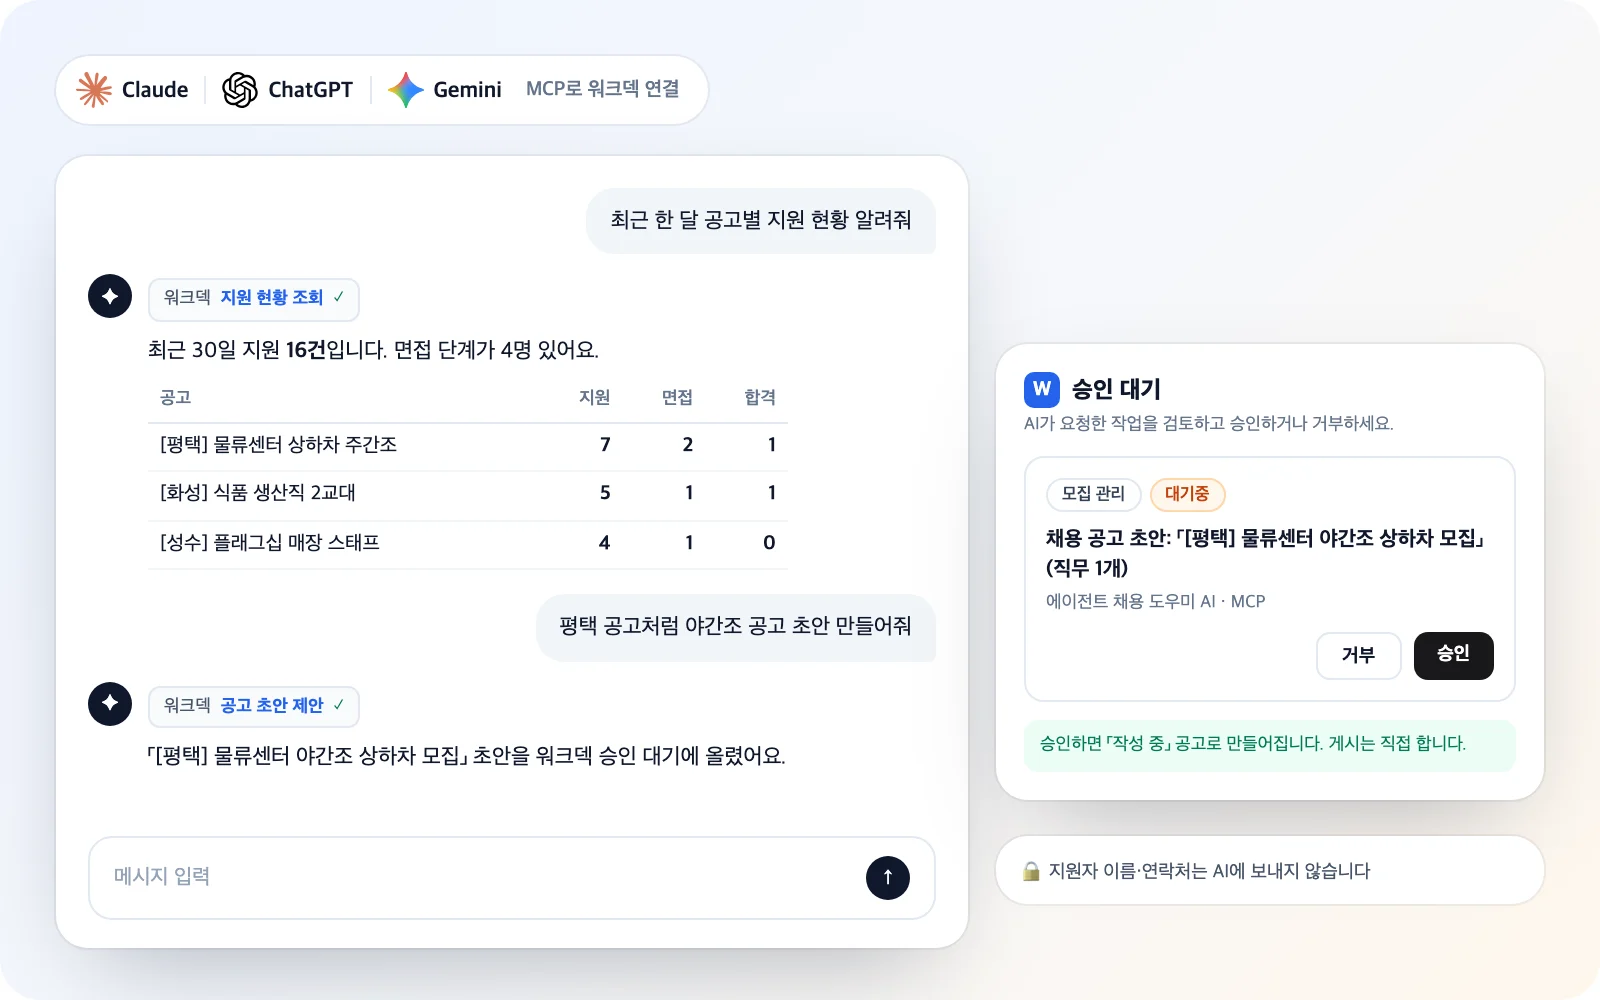
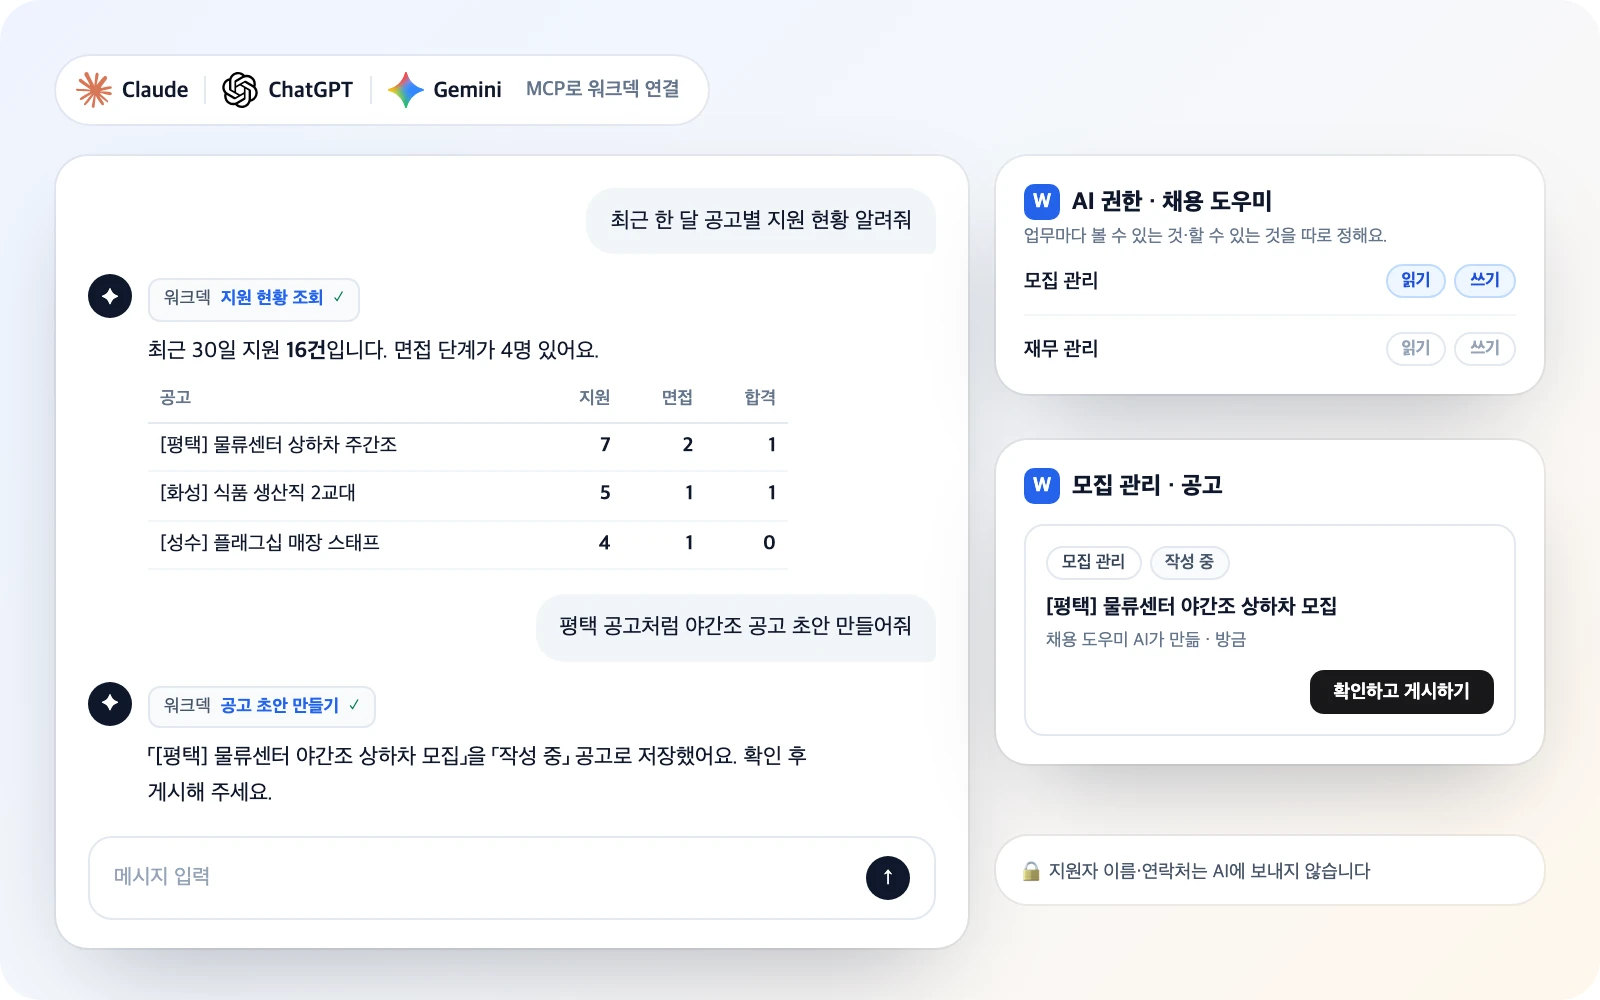
🎨 fix(marketing): AI 일러스트·MCP 안내를 업무별 권한·바로 실행 기준으로 정정 (#1699) (#1701)
- ai.webp: 승인 대기 카드 제거 → 업무별 AI 권한(모집 관리 읽기·쓰기) + 바로 저장된 「작성 중」 공고 카드로 다시 렌더(원본 ai-chat.html, 1600x1000)
- mcp-guide-card: 「변경은 승인해야 실행」 → 내부 쓰기 바로 실행·외부 반영 승인·직접 연결은 전체 권한·업무별 권한은 에이전트/연동 계정

diff --git a/docs/design/illustrations/recruiting/ai-chat.html b/docs/design/illustrations/recruiting/ai-chat.html
@@ -3,7 +3,7 @@
 <head>
 <meta charset="utf-8" />
 <!-- 모집 관리 랜딩 「AI 연동」 행 일러스트. 특정 앱을 흉내 내지 않은 중립 채팅 UI로, 워크덱 MCP 도구(hiring_get_application_stats·hiring_propose_posting_draft)
-     호출 결과와 워크덱 승인 대기 화면을 단순화해 재구성. 로고 출처: assets/logos/SOURCES.md(색·비율 변경 금지).
+     호출 결과와 설정 > 연동의 업무별 AI 권한, 바로 저장된 「작성 중」 공고를 단순화해 재구성(2026-11-28, #1528 바로 실행 반영). 로고 출처: assets/logos/SOURCES.md(색·비율 변경 금지).
      렌더: gstack browse viewport 860x560 --scale 2 → screenshot --selector .canvas → cwebp -->
 <style>
   * { box-sizing: border-box; margin: 0; }
@@ -43,22 +43,28 @@
   .composer { position: absolute; left: 16px; right: 16px; bottom: 14px; border: 1px solid #e2e8f0; border-radius: 12px; padding: 9px 12px; font-size: 10.5px; color: #94a3b8; display: flex; justify-content: space-between; align-items: center; }
   .send { width: 22px; height: 22px; border-radius: 50%; background: #0f172a; color: #fff; font-size: 11px; display: flex; align-items: center; justify-content: center; }
 
-  /* 워크덱 승인 */
-  .approve { left: 498px; top: 172px; width: 274px; padding: 14px; }
+  /* 워크덱 패널 공통 */
+  .side { left: 498px; width: 274px; padding: 14px; }
   .a-head { display: flex; align-items: center; gap: 6px; font-size: 12px; font-weight: 800; color: #0f172a; }
   .w { width: 18px; height: 18px; border-radius: 5px; background: #2563eb; color: #fff; font-size: 10px; display: flex; align-items: center; justify-content: center; }
   .a-sub { font-size: 9px; color: #64748b; margin-top: 3px; }
+  /* 업무별 AI 권한 */
+  .perm { top: 78px; }
+  .p-row { display: flex; align-items: center; justify-content: space-between; margin-top: 8px; font-size: 10px; color: #0f172a; font-weight: 600; }
+  .p-row + .p-row { padding-top: 8px; border-top: 1px solid #f1f5f9; }
+  .tags { display: flex; gap: 4px; }
+  .tag { font-size: 8.5px; font-weight: 700; padding: 2px 7px; border-radius: 999px; border: 1px solid #e2e8f0; color: #94a3b8; }
+  .tag.on { background: #eff6ff; border-color: #bfdbfe; color: #1d4ed8; }
+  /* 바로 저장된 공고 */
+  .saved { top: 220px; }
   .item { margin-top: 10px; border: 1px solid #e2e8f0; border-radius: 10px; padding: 10px; }
   .chips { display: flex; gap: 4px; }
   .chip { font-size: 8.5px; font-weight: 600; padding: 2px 7px; border-radius: 999px; border: 1px solid #e2e8f0; color: #334155; }
-  .chip.wait { background: #fff7ed; border-color: #fed7aa; color: #c2410c; }
+  .chip.draft { background: #f8fafc; color: #475569; }
   .i-title { margin-top: 7px; font-size: 10.5px; font-weight: 700; color: #0f172a; line-height: 1.45; }
   .i-meta { margin-top: 3px; font-size: 9px; color: #64748b; }
-  .acts { margin-top: 9px; display: flex; gap: 6px; justify-content: flex-end; }
-  .b { font-size: 9.5px; font-weight: 700; padding: 5px 12px; border-radius: 7px; }
-  .b.no { border: 1px solid #e2e8f0; color: #0f172a; }
-  .b.yes { background: #18181b; color: #fff; }
-  .result { margin-top: 9px; font-size: 9px; color: #047857; background: #ecfdf5; border-radius: 7px; padding: 6px 8px; line-height: 1.5; }
+  .acts { margin-top: 9px; display: flex; justify-content: flex-end; }
+  .b { font-size: 9.5px; font-weight: 700; padding: 5px 12px; border-radius: 7px; background: #18181b; color: #fff; }
   .lock { left: 498px; top: 418px; width: 274px; padding: 9px 12px; font-size: 9.5px; color: #475569; display: flex; gap: 6px; align-items: center; }
 </style>
 </head>
@@ -85,22 +91,26 @@
     </div></div>
     <div class="msg me"><div class="bubble">평택 공고처럼 야간조 공고 초안 만들어줘</div></div>
     <div class="msg bot"><span class="avatar">✦</span><div class="bubble">
-      <span class="tool">워크덱 <b>공고 초안 제안</b><span class="ok">✓</span></span><br />
-      「[평택] 물류센터 야간조 상하차 모집」 초안을 워크덱 승인 대기에 올렸어요.
+      <span class="tool">워크덱 <b>공고 초안 만들기</b><span class="ok">✓</span></span><br />
+      「[평택] 물류센터 야간조 상하차 모집」을 「작성 중」 공고로 저장했어요. 확인 후 게시해 주세요.
     </div></div>
     <div class="composer">메시지 입력<span class="send">↑</span></div>
   </div>
 
-  <div class="panel approve">
-    <div class="a-head"><span class="w">W</span>승인 대기</div>
-    <div class="a-sub">AI가 요청한 작업을 검토하고 승인하거나 거부하세요.</div>
+  <div class="panel side perm">
+    <div class="a-head"><span class="w">W</span>AI 권한 · 채용 도우미</div>
+    <div class="a-sub">업무마다 볼 수 있는 것·할 수 있는 것을 따로 정해요.</div>
+    <div class="p-row">모집 관리<span class="tags"><span class="tag on">읽기</span><span class="tag on">쓰기</span></span></div>
+    <div class="p-row">재무 관리<span class="tags"><span class="tag">읽기</span><span class="tag">쓰기</span></span></div>
+  </div>
+  <div class="panel side saved">
+    <div class="a-head"><span class="w">W</span>모집 관리 · 공고</div>
     <div class="item">
-      <div class="chips"><span class="chip">모집 관리</span><span class="chip wait">대기중</span></div>
-      <div class="i-title">채용 공고 초안: 「[평택] 물류센터 야간조 상하차 모집」 (직무 1개)</div>
-      <div class="i-meta">에이전트 채용 도우미 AI · MCP</div>
-      <div class="acts"><span class="b no">거부</span><span class="b yes">승인</span></div>
+      <div class="chips"><span class="chip">모집 관리</span><span class="chip draft">작성 중</span></div>
+      <div class="i-title">[평택] 물류센터 야간조 상하차 모집</div>
+      <div class="i-meta">채용 도우미 AI가 만듦 · 방금</div>
+      <div class="acts"><span class="b">확인하고 게시하기</span></div>
     </div>
-    <div class="result">승인하면 「작성 중」 공고로 만들어집니다. 게시는 직접 합니다.</div>
   </div>
   <div class="panel lock">🔒 지원자 이름·연락처는 AI에 보내지 않습니다</div>
 </div>

diff --git a/src/components/integrations/mcp-guide-card.tsx b/src/components/integrations/mcp-guide-card.tsx
@@ -85,9 +85,11 @@ export function McpGuideCard({ embedded = false }: { embedded?: boolean }) {
         </Tabs>
 
         <div className="rounded-md bg-muted/50 p-3 text-xs text-muted-foreground">
-          조회(읽기)는 즉시 응답하지만, 데이터를 변경하는 작업은 안전을 위해 승인 큐를 거칩니다.
-          연결한 에이전트가 변경을 요청하면 워크덱 AI 요청 승인 화면이나 Slack 승인 채널에서 확인 후
-          승인해야 실제로 실행됩니다.
+          조회는 바로 응답합니다. 공고 초안·발주 계획처럼 워크덱 안에서 끝나는 변경은 쓰기 권한이
+          있으면 바로 실행되고 Slack 실행 알림이 갑니다(Slack 승인 채널이 없으면 승인 대기로
+          갑니다). 광고 실행·게시물 발행처럼 밖으로 반영되는 작업은 AI 요청 승인 화면이나 Slack 승인
+          채널에서 승인해야 실행됩니다. 이 방법으로 직접 연결하면 내 계정의 모든 업무 권한을 씁니다.
+          업무별 읽기·쓰기를 나누려면 에이전트나 연동 계정으로 등록해 권한을 정하세요.
         </div>
       </CardContent>
     </Card>
